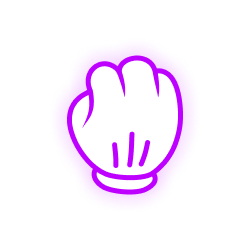
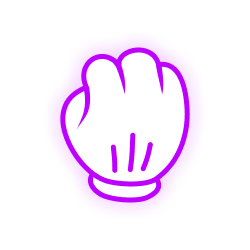
Rock Paper Scissor JS

Changed region(s): [[0.224, 0.168, 0.784, 0.812]]

diff --git a/sasso_carta_forbice/script.js b/sasso_carta_forbice/script.js
@@ -1,0 +1,92 @@
+// Let's create the variables and listener
+let paper = document.getElementById("btnPaper");
+let rock = document.getElementById("btnRock");
+let scissor = document.getElementById("btnScissor");
+
+let playerMove = document.getElementById("playerIMGjs");
+let cpuMove = document.getElementById("cpuIMGjs");
+
+let resultText = document.getElementById("resultText");
+let boxText = document.getElementById("textBox");
+
+paper.addEventListener("click", () =>
+  addPlayerMove("/assets/sasso_carta_forbice/paper.png")
+);
+rock.addEventListener("click", () =>
+  addPlayerMove("/assets/sasso_carta_forbice/rock.png")
+);
+scissor.addEventListener("click", () =>
+  addPlayerMove("/assets/sasso_carta_forbice/scissor.png")
+);
+
+let lock = true;
+
+// Let's create the function that allows the choice of the player's move and the random generation of the CPU move
+function addPlayerMove(moveImageSrc) {
+  if (lock == false) return;
+  lock = false;
+  boxText.style.boxShadow = "inset 0 0 20px 0 black";
+  resultText.innerHTML = "";
+  cpuMove.src = "/assets/sasso_carta_forbice/neutral.png";
+  playerMove.src = "/assets/sasso_carta_forbice/neutral.png";
+  playerMove.classList.add("animation");
+  cpuMove.classList.add("animation");
+
+  setTimeout(() => {
+    playerMove.classList.remove("animation", "opacity0");
+    playerMove.classList.add("opacity100");
+    cpuMove.classList.remove("animation", "opacity0");
+    cpuMove.classList.add("opacity100");
+    playerMove.src = moveImageSrc;
+    cpuMove.src = randomCpuImg();
+    result();
+    lock = true;
+  }, 900);
+}
+
+let cpuArray = [
+  "/assets/sasso_carta_forbice/scissor.png",
+  "/assets/sasso_carta_forbice/rock.png",
+  "/assets/sasso_carta_forbice/paper.png",
+];
+
+// Let's create the CPU random selection function
+function randomCpuImg() {
+  let randCpu = Math.floor(Math.random() * cpuArray.length);
+  return cpuArray[randCpu];
+}
+
+// Let's create the player's win
+function playerWin() {
+  let playerChoice = playerMove.src;
+  let cpuChoice = cpuMove.src;
+  if (
+    (playerChoice.includes("paper") && cpuChoice.includes("rock")) ||
+    (playerChoice.includes("rock") && cpuChoice.includes("scissor")) ||
+    (playerChoice.includes("scissor") && cpuChoice.includes("paper"))
+  ) {
+    return true;
+  } else {
+    return false;
+  }
+}
+
+// Let's create the cases
+function result() {
+  if (playerMove.src === cpuMove.src) {
+    // console.log("draw");
+    resultText.innerHTML = "Draw";
+    resultText.style.color = "#FFFFFF";
+    boxText.style.boxShadow = "0 0 20px 0 rgba(255,255,255,0.6)";
+  } else if (playerWin()) {
+    // console.log("you won");
+    resultText.innerHTML = "You Won!";
+    resultText.style.color = "#00FF00";
+    boxText.style.boxShadow = "0 0 20px 0 rgba(0,255,0,0.6)";
+  } else {
+    // console.log('you lost');
+    resultText.innerHTML = "You Lost :(";
+    resultText.style.color = "#FF0000";
+    boxText.style.boxShadow = "0 0 20px 0 rgba(255,0,0,0.6)";
+  }
+}

diff --git a/sasso_carta_forbice/index.html b/sasso_carta_forbice/index.html
@@ -9,24 +9,27 @@
   </head>
 
   <body>
-    <!-- Sasso Carta Forbice -->
+    <!-- Rock Paper Scissor -->
     <div class="bacgroundIMG">
       <div class="gameContainer">
-        <h1>Scissor Paper Rock</h1>
+        <h1>Rock Paper Scissor</h1>
         <div class="gameCard">
           <h4>Make your move!</h4>
           <div class="gamerSelection">
             <img
-              src="/assets/sasso_carta_forbice/paper.png"
-              alt=""
-              class="inputIMG paper"
-            />
-            <img
+              id="btnRock"
               src="/assets/sasso_carta_forbice/rock.png"
               alt=""
               class="inputIMG rock"
             />
             <img
+              id="btnPaper"
+              src="/assets/sasso_carta_forbice/paper.png"
+              alt=""
+              class="inputIMG paper"
+            />
+            <img
+              id="btnScissor"
               src="/assets/sasso_carta_forbice/scissor.png"
               alt=""
               class="inputIMG scissor"
@@ -37,24 +40,29 @@
             <div class="playerMove">
               <label>Player Move</label>
               <img
+                id="playerIMGjs"
                 src="/assets/sasso_carta_forbice/neutral.png"
                 alt=""
-                class="playerIMG"
+                class="playerIMG opacity0"
               />
             </div>
             <div class="cpuMove">
               <label>Cpu Move</label>
               <img
+                id="cpuIMGjs"
                 src="/assets/sasso_carta_forbice/neutral.png"
                 alt=""
-                class="cpuIMG"
+                class="cpuIMG opacity0"
               />
             </div>
           </div>
-          <h3>Result</h3>
-          <div class="button">Try again</div>
+          <div class="resultBox" id="textBox">
+            <h3 id="resultText"></h3>
+          </div>
         </div>
       </div>
     </div>
+
+    <script src="script.js"></script>
   </body>
 </html>

diff --git a/sasso_carta_forbice/style.css b/sasso_carta_forbice/style.css
@@ -37,7 +37,7 @@ body {
   border: double 2px transparent;
   border-radius: 30px;
   background-image: linear-gradient(rgb(20, 20, 20), rgb(20, 20, 20)),
-    radial-gradient(circle at top left, #0387E8, #D83FD9);
+    radial-gradient(circle at top left, #0387e8, #d83fd9);
   background-origin: border-box;
   background-clip: padding-box, border-box;
   /* End, borderGradient */
@@ -96,7 +96,20 @@ body {
 .result .playerIMG,
 .cpuIMG {
   width: 200px;
+}
+
+.opacity0 {
   opacity: 0%;
+}
+
+.opacity100 {
+  opacity: 100%;
+}
+
+.animation {
+  opacity: 100%;
+  animation: animationPunch 0.3s ease-in-out;
+  animation-iteration-count: 3;
 }
 
 .result .playerMove {
@@ -125,8 +138,7 @@ h4 {
 
 .gameContainer h3 {
   font-size: 40px;
-  color: rgb(255, 0, 0);
-  padding: 10px 0 40px 0;
+  color: rgb(255, 255, 255);
 }
 
 .gameContainer h1 {
@@ -136,8 +148,37 @@ h4 {
 }
 
 .line {
-    background-color: rgb(104, 104, 104);
-    height: 1px;
-    width: 90%;
-    margin: 20px 0;
+  background-color: rgb(104, 104, 104);
+  height: 1px;
+  width: 90%;
+  margin: 20px 0;
+}
+
+.resultBox {
+  display: flex;
+  justify-content: center;
+  align-items: center;
+  width: 440px;
+  height: 100px;
+  margin: 20px;
+  box-shadow: inset 0 0 20px 0 black;
+  border-radius: 20px;
+  background-color: rgb(15, 15, 15);
+  text-transform: uppercase;
+}
+
+/* Animation */
+@keyframes animationPunch {
+  0% {
+    /* transform: translateY(10px); */
+    transform: rotate(30deg);
+  }
+  50% {
+    /* transform: translateY(-10px); */
+    transform: rotate(-30deg);
+  }
+  100% {
+    /* transform: translateY(10px); */
+    transform: rotate(30deg);
+  }
 }
